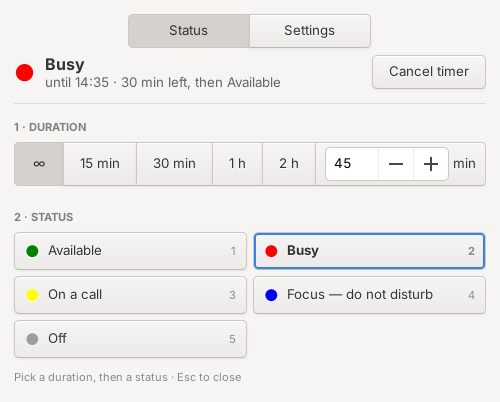
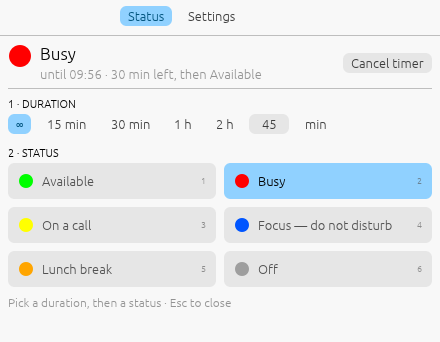
v2: README, CONTRIBUTING and screenshots for the Rust version
Claude-Session: https://claude.ai/code/session_01HiipHthEjkDPDLwqHjDQ32

diff --git a/src/panel/mod.rs b/src/panel/mod.rs
@@ -428,7 +428,7 @@ impl Panel {
         ui.add_space(6.0);
         ui.label(
             RichText::new(tr("Pick a duration, then a status · Esc to close"))
-                .small()
+                .size(12.0)
                 .weak(),
         );
     }

diff --git a/CONTRIBUTING.md b/CONTRIBUTING.md
@@ -25,11 +25,12 @@ Running `luxafor-toggle` from a terminal usually prints a useful error message.
 3. Run the checks — CI runs the same ones on every pull request:
 
    ```bash
-   tests/run.sh                 # driver and statuses, no light needed
-   xvfb-run -a dbus-run-session -- tests/ui.py   # panel and tray
-   shellcheck install.sh uninstall.sh bin/luxafor-light bin/luxafor-toggle \
-              bin/luxafor-callwatch packaging/build-deb.sh tests/run.sh
-   python3 -m py_compile bin/luxafor-tray bin/luxafor-panel
+   sudo apt install libgtk-3-dev libayatana-appindicator3-dev   # to build
+   cargo fmt --check && cargo clippy -- -D warnings
+   cargo test                   # unit tests
+   cargo build && tests/run.sh  # command line, with a fake light
+   xvfb-run -a dbus-run-session -- tests/ui.sh   # tray and panel
+   shellcheck install.sh uninstall.sh packaging/*.sh tests/*.sh po/*.sh
    ```
 
 4. Test `./install.sh` and `./uninstall.sh` on your machine if you touched them.
@@ -38,18 +39,21 @@ Running `luxafor-toggle` from a terminal usually prints a useful error message.
 ## Building the package
 
 ```bash
-packaging/build-deb.sh 0.1.0       # → dist/luxafor-status_0.1.0_all.deb
+cargo build --release
+packaging/build-deb.sh 2.0.0       # → dist/luxafor-status_2.0.0_amd64.deb
 lintian --pedantic dist/*.deb      # should print nothing
 ```
 
-It only needs `dpkg-deb` (no debhelper). The package installs to `/usr`, puts
+It only needs `dpkg-deb` and `dpkg-shlibdeps` (no debhelper). The package
+installs to `/usr` (`luxafor-status`, and the v1 command names as links), puts
 the udev rule in `/usr/lib/udev/rules.d` and starts the tray icon through
-`/etc/xdg/autostart`.
+`/etc/xdg/autostart`. Releases are built on Ubuntu 22.04 so the packages work
+there and later.
 
 ## Releasing
 
 Push a version tag; the *Release* workflow tests, builds and publishes a GitHub
-release with the `.deb` attached:
+release with the packages (amd64, arm64) and the Windows `.exe` attached:
 
 ```bash
 git tag v0.1.0
@@ -82,26 +86,32 @@ sorts before `0.3.0`. Tags that aren't `vX.Y.Z[-suffix]` are rejected.
 ## Project layout
 
 ```
-bin/luxafor-light      driver: writes HID reports to /dev/hidraw* (pure bash)
-bin/luxafor-toggle     sets or cycles the status (calls luxafor-light), and generates
-                       the status icons and the dock launcher (--reload)
-bin/luxafor-tray       tray icon showing the current status (Python + AppIndicator)
-bin/luxafor-callwatch  call detection: watches microphone streams with `pactl`
-bin/luxafor-panel      panel (Python + GTK 3): Status tab runs luxafor-toggle for every
-                       action; Settings tab reads settings through luxafor-toggle and
-                       rewrites statuses.conf
+src/main.rs            one program, several commands (also reached through the
+                       v1 command names: luxafor-toggle → toggle…)
+src/toggle.rs          luxafor-toggle: sets or cycles the status, timers, settings
+src/lightcli.rs        luxafor-light: the light alone
+src/light.rs           driver: Linux writes HID reports to /dev/hidraw* (found
+                       through sysfs), Windows uses hidapi
+src/config.rs          statuses.conf: reading, settings, writing (panel)
+src/state.rs           current status and timer files, durations
+src/calls.rs           call detection: pactl (Linux), Windows' microphone list
+src/tray/              tray icon (tray-icon crate): menu, light unplugged,
+                       screen lock, do not disturb; runs the call detection
+src/panel/             panel (egui): Status and Settings tabs; model.rs holds
+                       the Settings logic, unit-tested
+src/i18n.rs            translations, built in from po/*.po
+src/desktop.rs         Linux dock launcher and notification icons (--reload)
 share/statuses.conf    default status configuration
 share/icons/           application icon (luxafor-status)
-share/applications/    autostart templates (@BINDIR@ is replaced at install time)
+share/applications/    launcher templates (@BINDIR@ is replaced at install time)
 udev/                  udev rule granting the logged-in user access to the light
-install.sh             per-user installer (from source)
-uninstall.sh           uninstaller for the per-user install
+install.sh             per-user install from source
 packaging/             .deb build script, apt repository script, man pages, AppStream metadata
-tests/run.sh           tests with a fake light
-tests/ui.py            panel and tray tests, under a virtual display
-po/                    translations (gettext): template, *.po, build and update scripts
+tests/run.sh           command-line tests with a fake light (from v1)
+tests/ui.sh            tray and panel, under a virtual display
+po/                    translations: template, *.po, extract and update scripts
 docs/                  README images
-.github/workflows/     CI (checks + package build) and releases
+.github/workflows/     CI and releases
 ```
 
 Runtime files:
@@ -109,30 +119,29 @@ Runtime files:
 - `~/.config/luxafor-status/statuses.conf` — the user's statuses
   (`id | color | label [| effect]`) and settings (`key = value`: `default-status`,
   `call-status`, `call-apps`, `lock-status`, `dnd-statuses`, `timer-shortcuts`,
-  `brightness`, `theme`). `luxafor-toggle` and `luxafor-tray` both parse the statuses
-  and must stay in sync if the format changes; other tools read settings with
-  `luxafor-toggle --setting <key>`.
+  `brightness`, `theme`), read by src/config.rs. On Windows:
+  `%APPDATA%\luxafor-status\statuses.conf`, and the files below are in
+  `%LOCALAPPDATA%\luxafor-status`.
 - `~/.cache/luxafor-dnd` — while the tray has silenced notifications: the
   user's own do-not-disturb setting, put back afterwards (also after a crash).
 - `~/.cache/luxafor-state` — the current status id. The tray icon polls it
   (and the config file's modification time) every second, so any tool that
   calls `luxafor-toggle` keeps the tray in sync.
 - `~/.cache/luxafor-timer` — the running timer, `<end epoch> <status id>`.
-  A background `luxafor-toggle --timer-expire` process ends it; it checks the
-  wall clock every 20 s so suspend doesn't delay it, and exits as soon as the
-  file changes (status set by hand, new timer, cancel). `--keep-timer` (used
-  by `luxafor-callwatch`) sets a status without cancelling the timer.
+  A background `luxafor-status toggle --timer-expire` process ends it; it
+  checks the wall clock every 20 s so suspend doesn't delay it, and exits as
+  soon as the file changes (status set by hand, new timer, cancel).
+  `--keep-timer` (used by the tray for the screen lock) sets a status without
+  cancelling the timer.
+- `~/.cache/luxafor-tray.log` — errors met by the tray.
+- `$XDG_RUNTIME_DIR/luxafor-*.lock` — one call detection per user (and one
+  timer ending at a time; on Windows, one tray).
 - `~/.local/share/luxafor-status/icons/` — one generated SVG per status (notifications).
-- `~/.local/share/icons/lxftrayx-<id>-<hash>.svg` — the same, as a dashed
-  ring, shown while the light is unplugged. The tray checks sysfs every second
-  (same lookup as `luxafor-light`, honouring `LUXAFOR_IDS` / `LUXAFOR_SYSFS`)
-  and runs `luxafor-toggle --apply` when the light comes back.
-- `~/.local/share/icons/lxftray-<id>-<hash>.svg` — tray icons, written by
-  `luxafor-tray`. They live in the standard icon folder because some tray hosts
-  (e.g. Budgie) ignore the indicator's custom icon path; the color hash in the
-  name prevents hosts from showing a cached icon after a color change.
-  The prefix deliberately shares nothing with other icon names — see the
-  comment in `bin/luxafor-tray` (GTK generic fallback).
+
+The tray checks every second whether the light is plugged in (same lookup as
+`luxafor-light`, honouring `LUXAFOR_IDS` / `LUXAFOR_SYSFS`), and shows the
+current status on it again when it comes back. Its icon is drawn by the
+program (a disc, or a dashed ring while the light is unplugged).
 
 ## Testing without a light
 
@@ -144,24 +153,23 @@ mkdir -p /tmp/lx/sys/class/hidraw/hidraw0/device /tmp/lx/dev
 printf 'HID_ID=0003:000004D8:0000F372\nHID_NAME=Fake Luxafor\n' \
   > /tmp/lx/sys/class/hidraw/hidraw0/device/uevent
 touch /tmp/lx/dev/hidraw0
-LUXAFOR_SYSFS=/tmp/lx/sys LUXAFOR_DEV=/tmp/lx/dev bin/luxafor-light orange
+LUXAFOR_SYSFS=/tmp/lx/sys LUXAFOR_DEV=/tmp/lx/dev target/debug/luxafor-status light orange
 od -An -tx1 /tmp/lx/dev/hidraw0     # 00 01 ff ff a5 00 00 00 00
 ```
 
-To support another model, add its `vendor:product` ID to `IDS` in
-`bin/luxafor-light` and to `udev/70-luxafor-status.rules`.
+To support another model, add its `vendor:product` ID to `ids()` in
+`src/light.rs` and to `udev/70-luxafor-status.rules`.
 
 ## Translations
 
-Messages use gettext (domain `luxafor-status`): `_()` in the Python scripts,
-`t` / `tf` (printf format) in the shell scripts — one call per line start,
-so `xgettext` sees it.
+Messages are marked with `tr("…")`, or `trf("… {name} …", &[("name", &value)])`
+for placeholders. The `.po` files (gettext format) are built into the program:
+nothing to compile or install.
 
-- Add a language: `msginit -i po/luxafor-status.pot -l de -o po/de.po`, translate,
-  open a pull request.
+- Add a language: `msginit -i po/luxafor-status.pot -l de -o po/de.po`,
+  translate, add the file to `CATALOGS` in `src/i18n.rs`, open a pull request.
 - After changing messages: `po/update-pot.sh` (CI checks the template is up to date).
-- Try it: `po/build.sh /tmp/locale && LUXAFOR_LOCALEDIR=/tmp/locale LANGUAGE=de luxafor-panel`
-  (shell scripts also need a matching locale, e.g. `LC_ALL=de_DE.UTF-8`).
+- Try it: `LUXAFOR_LANG=de cargo run -- panel`.
 
 The names of the shipped statuses (`share/statuses.conf`) are translated
 until the user has statuses of their own.

diff --git a/README.md b/README.md
@@ -3,7 +3,8 @@
 [![CI](https://github.com/NevilleDubuis/luxafor-status-linux/actions/workflows/ci.yml/badge.svg)](https://github.com/NevilleDubuis/luxafor-status-linux/actions/workflows/ci.yml)
 [![Latest release](https://img.shields.io/github/v/release/NevilleDubuis/luxafor-status-linux)](https://github.com/NevilleDubuis/luxafor-status-linux/releases/latest)
 
-Control a **Luxafor** status light from Ubuntu, with:
+Control a **Luxafor** status light from Linux (Ubuntu, Debian…) — and,
+in preview, Windows 11 — with:
 
 - 🖱 **a dock button** — click to cycle through statuses, right-click to pick one;
 - 🪟 **a quick panel** — big status buttons and one-click durations;
@@ -30,8 +31,8 @@ Default statuses:
 | Off       | ⚪ —      |
 
 Luxafor's official software does not support Linux. This project talks to the
-light directly through its documented USB HID protocol: **no driver to install,
-no Python package, nothing but bash** for the light itself.
+light directly through its documented USB HID protocol: **no driver to
+install** — one small program, written in Rust.
 
 ## Hardware support
 
@@ -58,8 +59,8 @@ sudo apt install luxafor-status
 ```
 
 `apt` installs the dependencies, the udev rule and the launchers. The tray icon
-and the call detection start at each login — to start them right away, open
-**Luxafor Panel** from the app menu once (or log out and back in).
+(which also runs the call detection) starts at each login — to start it right
+away, open **Luxafor Panel** from the app menu once (or log out and back in).
 
 New versions then arrive with `sudo apt upgrade`. Use `testing` instead of
 `stable` to get pre-releases (beta, release candidates) too.
@@ -70,20 +71,40 @@ New versions then arrive with `sudo apt upgrade`. Use `testing` instead of
 
 ### Debian package
 
-Or download the latest `.deb` from the
+Or download the latest `.deb` for your computer (`amd64` for most PCs,
+`arm64` for ARM ones) from the
 [releases page](https://github.com/NevilleDubuis/luxafor-status-linux/releases/latest),
 then:
 
 ```bash
-sudo apt install ./luxafor-status_*_all.deb
+sudo apt install ./luxafor-status_*_amd64.deb
 ```
+
+It works on Ubuntu 22.04 and later, Debian 12 and later.
 
 You'll have to download each new version yourself — the apt repository above
 does it for you.
 
+### Windows 11 (preview)
+
+Download `luxafor-status-…-windows-x64.exe` from the
+[releases page](https://github.com/NevilleDubuis/luxafor-status-linux/releases),
+put it where you keep your programs, and run it: the panel opens and the tray
+icon starts — and from then on, at each login. Nothing to install, no driver.
+
+Windows may warn that the publisher is unknown (the program isn't signed):
+**More info → Run anyway**.
+
+On Windows, a left click on the tray icon opens the panel, a right click the
+menu. The statuses and settings are kept in
+`%APPDATA%\luxafor-status\statuses.conf`. Call detection uses the apps
+Windows lists as using the microphone (Teams, Zoom, browsers). Not there yet:
+notifications and do not disturb.
+
 ### From source
 
-For other distributions, or to try the latest changes:
+For other distributions, or to try the latest changes — you need
+[Rust](https://rustup.rs):
 
 ```bash
 git clone https://github.com/NevilleDubuis/luxafor-status-linux.git
@@ -93,11 +114,12 @@ cd luxafor-status-linux
 
 The installer:
 
-1. installs the required packages (GTK/AppIndicator bindings for the tray icon, `notify-send`);
-2. adds a **udev** rule so the light can be used without `sudo`;
-3. copies the scripts to `~/.local/bin`, adds the launcher to the app menu, and starts the tray icon at login.
+1. installs the packages needed to build (GTK and AppIndicator development files);
+2. builds the program (`cargo build --release`);
+3. adds a **udev** rule so the light can be used without `sudo`;
+4. copies the program to `~/.local/bin`, adds the launcher to the app menu, and starts the tray icon at login.
 
-It only asks for your `sudo` password for steps 1 and 2.
+It only asks for your `sudo` password for steps 1 and 3.
 If the light doesn't respond right away, unplug and replug it.
 
 > [!NOTE]
@@ -120,8 +142,7 @@ Options:
 
   - a status in one click;
   - a timer in one click (`timer-shortcuts`, see [Settings](#settings));
-  - **More…** opens the panel, for any duration and the settings (a
-    middle-click on the dot too);
+  - **More…** opens the panel, for any duration and the settings;
   - while a timer runs, the time left shows next to the dot and at the top of
     the menu, with **Cancel timer**.
 - **Panel**: "Luxafor Panel" in the app menu, or **More…** in the tray menu.
@@ -278,9 +299,9 @@ in the tray. To do it by hand: `luxafor-toggle --apply`.
 
 ## Automatic call status
 
-`luxafor-callwatch` starts at login and watches which applications use your
-microphone. When your web browser starts recording — which is what happens when
-you join a call in Teams, Odoo, Google Meet, Jitsi or any other web app — the
+The tray icon watches which applications use your microphone. When your web
+browser or a call app (Teams, Zoom) starts recording — which is what happens
+when you join a call in Teams, Odoo, Google Meet, Jitsi or any other web app — the
 light switches to your `call-status` (**On a call** by default — see
 [Settings](#settings)). When the call ends, it goes back to the status you had
 before (unless you changed it yourself during the call).
@@ -345,6 +366,13 @@ Translations are welcome — see [CONTRIBUTING](CONTRIBUTING.md#translations).
 
 ## Upgrading from an earlier version
 
+From 1.x to 2.0: v2 is a rewrite in Rust — one program, `luxafor-status`,
+with the same commands as before (`luxafor-toggle`, `luxafor-light`…), the
+same `statuses.conf`, and the same settings. The tray icon now runs the call
+detection itself (no separate `luxafor-callwatch` at login). After upgrading,
+log out and back in once, or open **Luxafor Panel**: the new tray icon
+replaces the old one.
+
 From 0.x to 1.0: `~/.config/luxafor-status/callwatch.conf` is no longer read.
 Its settings moved to `statuses.conf` (`call-status`, `call-apps`; `enabled = no`
 becomes `call-status = none`) — or set them in the panel. A notification
@@ -373,7 +401,7 @@ Your statuses stay in `~/.config/luxafor-status/` (delete that folder to remove 
 Source install:
 
 ```bash
-./uninstall.sh         # removes scripts, launchers and icons
+./uninstall.sh         # removes the program, launchers and icons
 ./uninstall.sh --all   # also removes your statuses and the udev rule
 ```
 
@@ -385,7 +413,8 @@ size is appreciated:
 - 🧪 **testing** with other Luxafor models or Linux distributions / desktops;
 - 🌍 **translations** of the default statuses and messages;
 - 🐛 **bug reports** and fixes;
-- ✨ **ideas** — e.g. automatic status from calendar, screen lock or video calls.
+- 🪟 **Windows 11** testers;
+- ✨ **ideas** — e.g. automatic status from your calendar.
 
 See [CONTRIBUTING.md](CONTRIBUTING.md) to get started.
 
